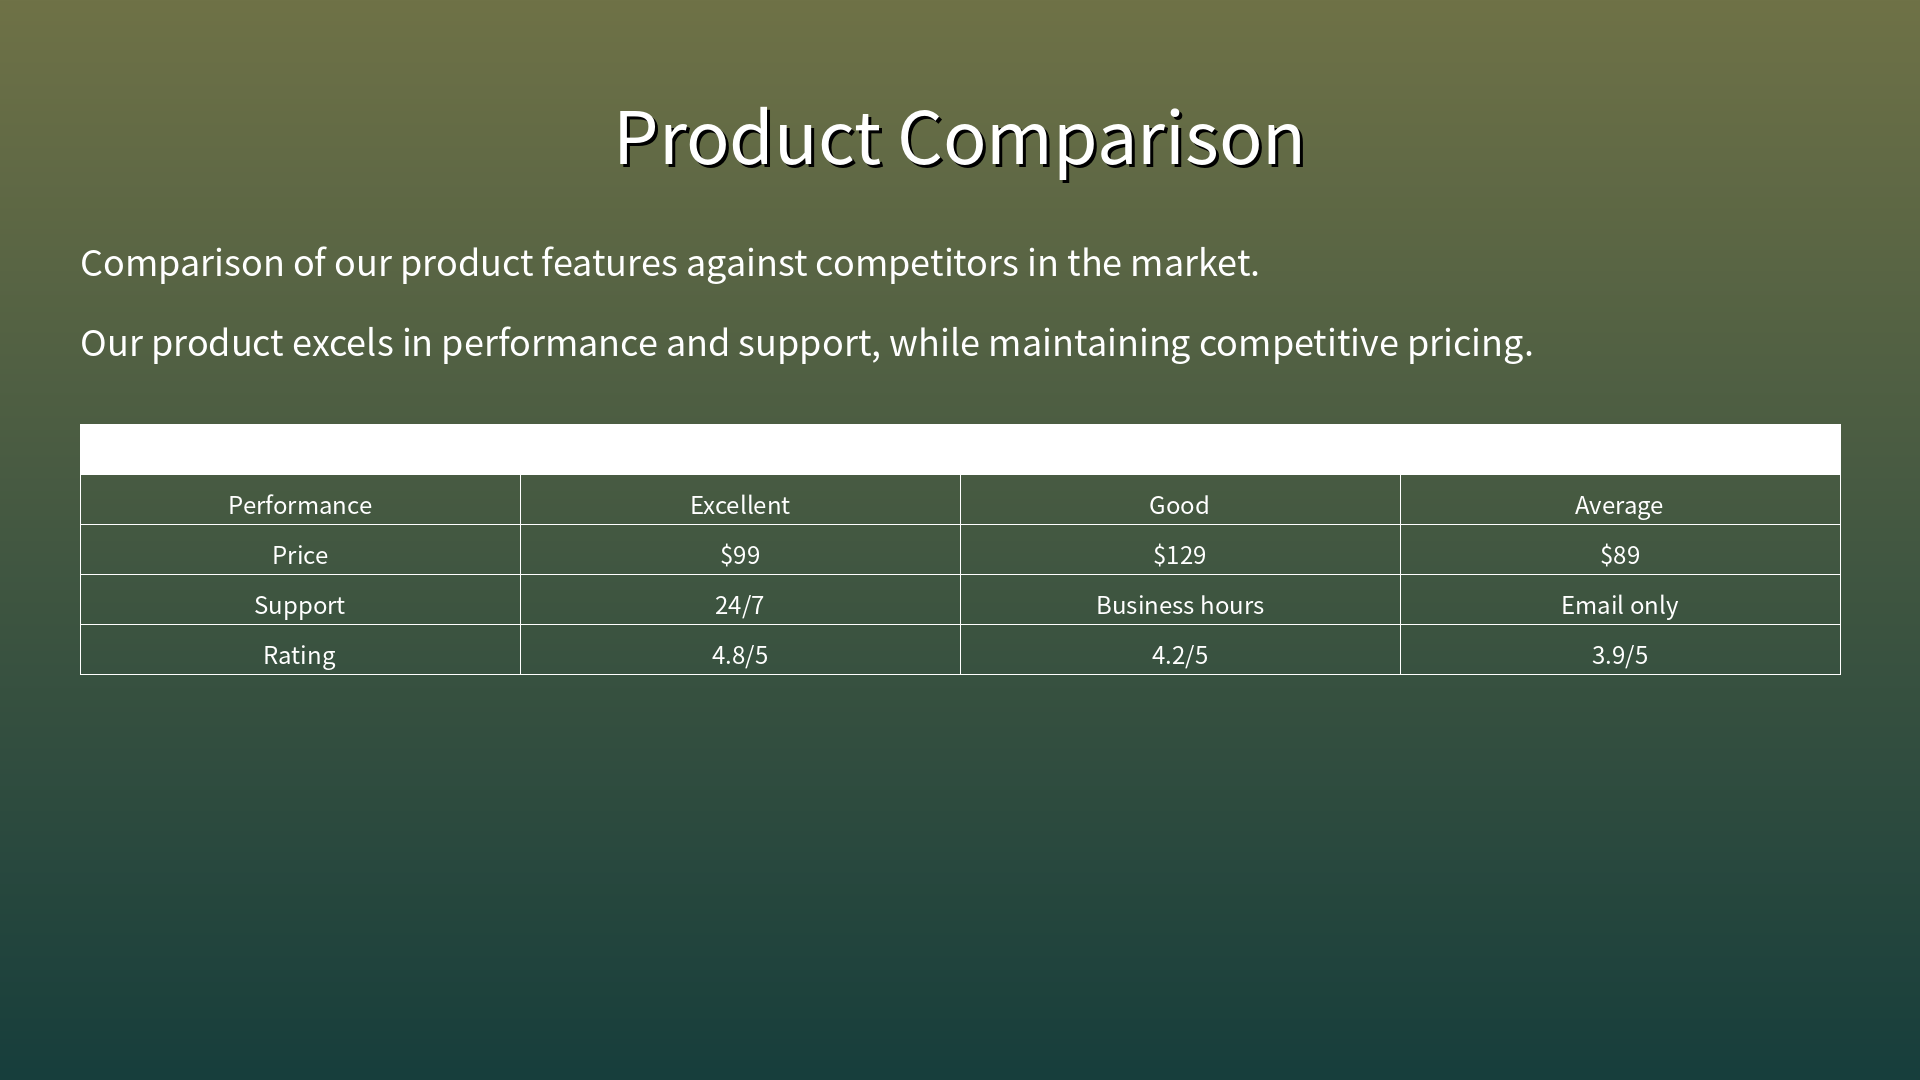
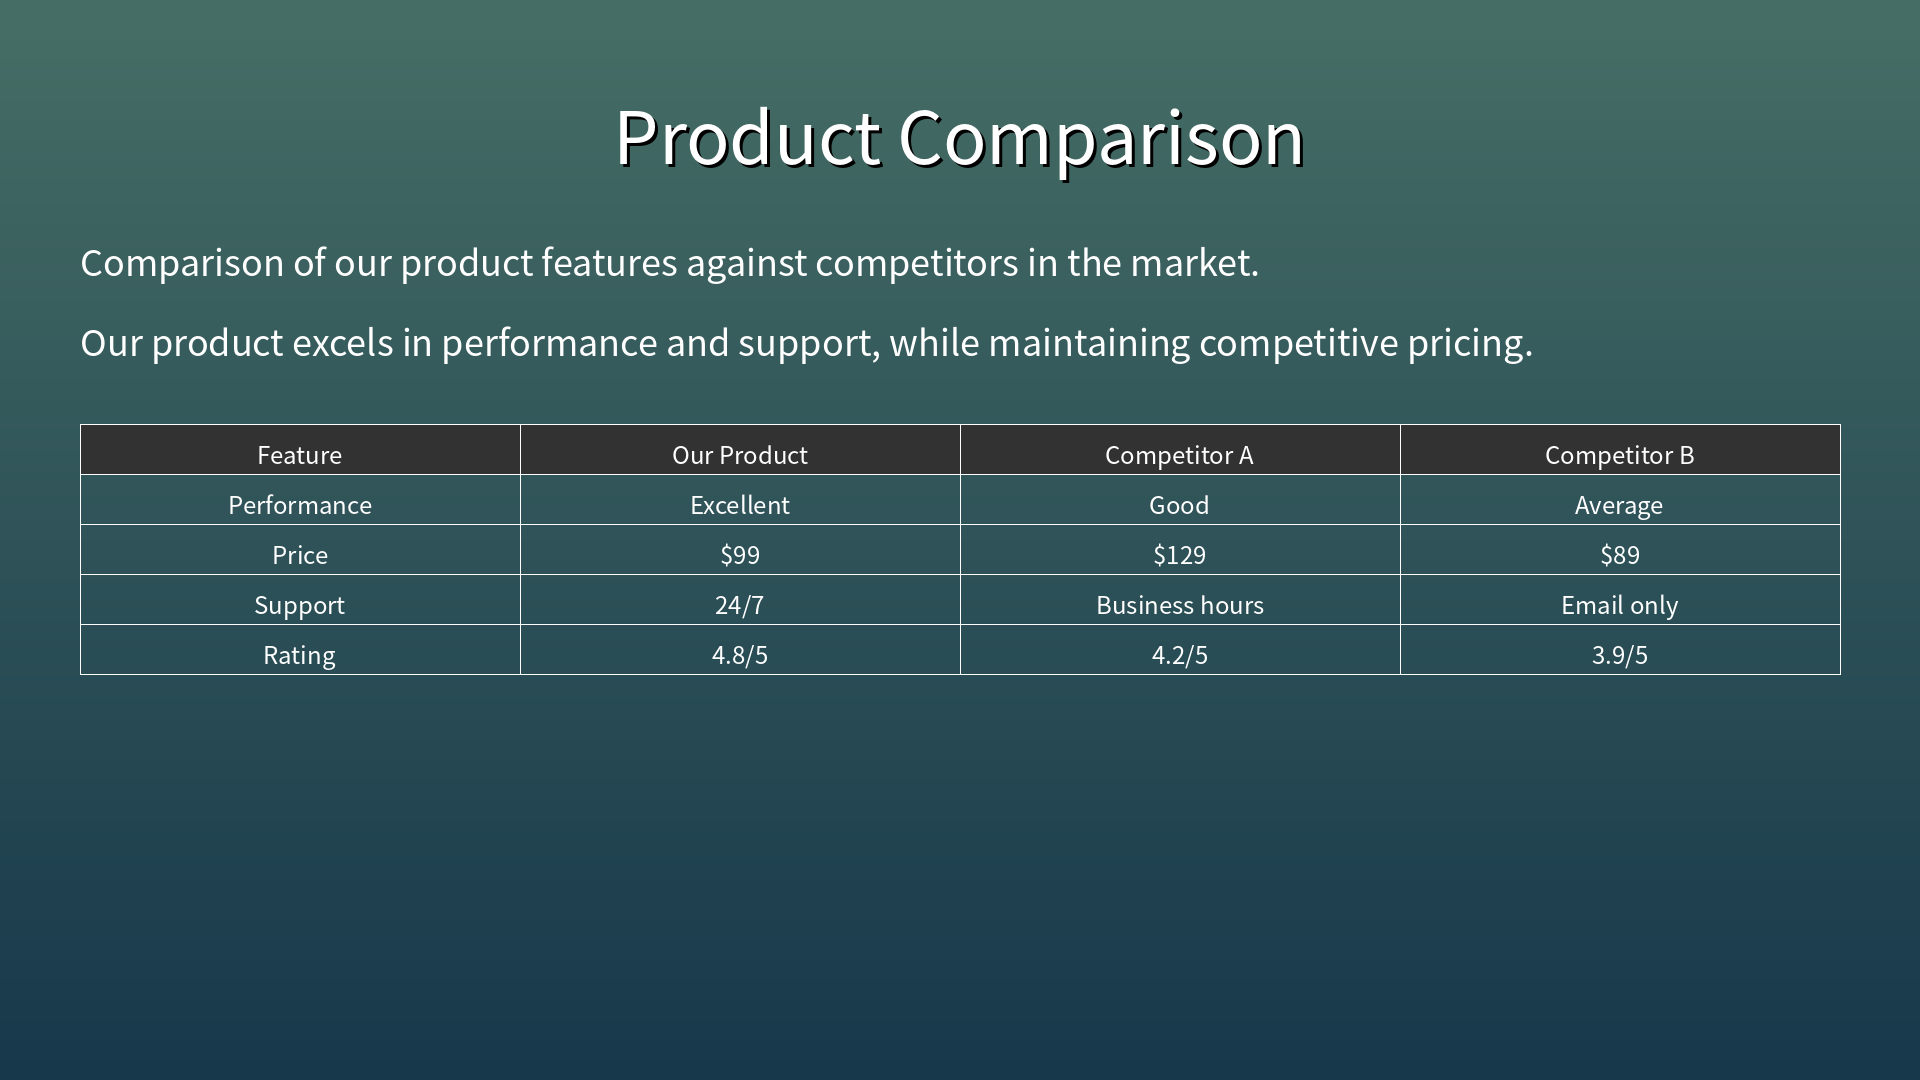
Enhance table header visibility and update sample image for improved design clarity
- Updated table header cell background color to a darker semi-transparent shade for better contrast
- Refreshed sample table image (table_sample.png) to reflect the updated header design

diff --git a/src/layout.py b/src/layout.py
@@ -185,7 +185,7 @@ class LayoutEngine:
             x = x_start + i * cell_width
             # Draw cell background
             draw.rectangle([x, y, x + cell_width, y + cell_height], 
-                         fill=(255, 255, 255, 30), outline=(255, 255, 255, 128))
+                         fill=(50, 50, 50, 200), outline=(255, 255, 255, 128))
             # Draw text
             bbox = draw.textbbox((0, 0), header, font=self.table_font)
             text_width = bbox[2] - bbox[0]
